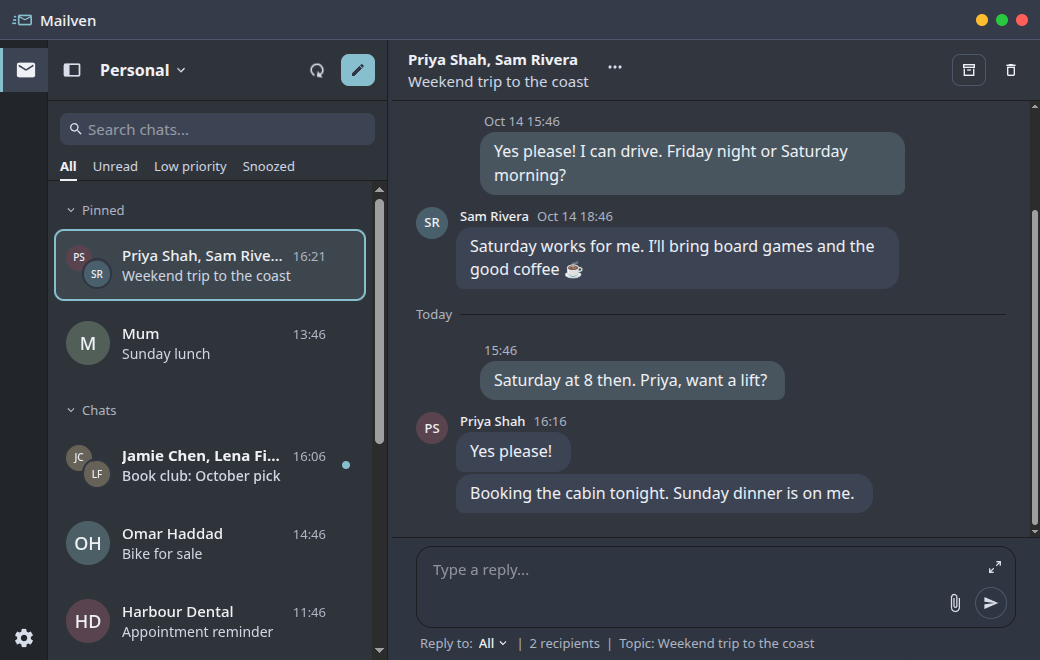
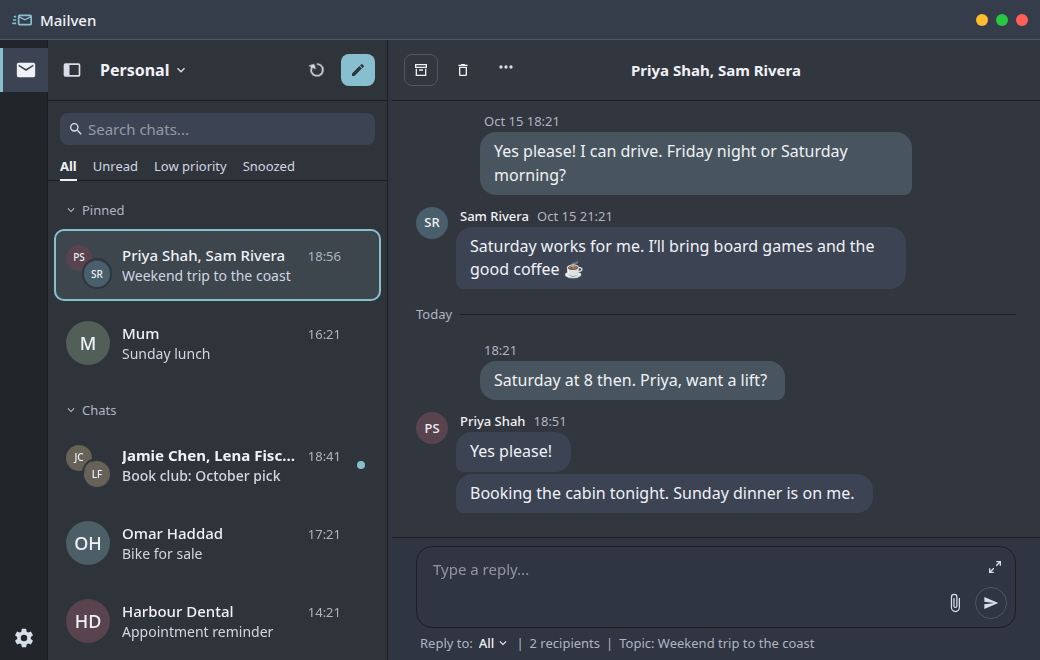
docs: refresh the README screenshot and add light and narrow shots
- Retake docs/ss.png for the current chat header (centred title, subject
  as a stream heading).
- Add docs/ss-light.png (light theme, Accounts column open) and
  docs/ss-narrow.png (480 px single-pane layout) to the README.
- headless-shot.js now writes all three README shots; the screenshot
  fakes pin the in-app title bar so shots don't depend on the dev profile.

diff --git a/.agents/skills/run-mailven/headless-shot.js b/.agents/skills/run-mailven/headless-shot.js
@@ -1,20 +1,44 @@
-// Headless README shot and Accounts-column crops. See "Playwright checks" in SKILL.md.
+// Headless README shots and Accounts-column crops. See "Playwright checks" in SKILL.md.
 // Usage: node headless-shot.js <outdir>   (dev server on :34115, DISPLAY not needed)
-// Writes <outdir>/ss.png (1040x660, README shot) and <outdir>/vc-<theme>-<expanded|collapsed>.png (title bar + sidebar).
+// Writes the README shots <outdir>/ss.png (1040x660, dark), ss-light.png (1040x690, light, Accounts expanded)
+// and ss-narrow.png (480x750, single-pane layout), plus <outdir>/vc-<theme>-<expanded|collapsed>.png (title bar + sidebar).
 const { withFakePage } = require('./fake-page')
 const out = process.argv[2]
 if (!out) { console.error('usage: node headless-shot.js <outdir>'); process.exit(1) }
-withFakePage({ width: 1040, height: 660 }, async (p) => {
-  await p.mouse.move(1039, 659)
-  await p.screenshot({ path: `${out}/ss.png` })
-  // Theme x Accounts-column check. Dev builds force dark, so set data-theme by hand for light.
-  const toggle = p.locator('[title="Hide sidebar"],[aria-label="Hide sidebar"],[title="Show sidebar"],[aria-label="Show sidebar"]').first()
-  for (const theme of ['dark', 'light']) {
-    await p.evaluate((t) => document.documentElement.setAttribute('data-theme', t), theme)
-    for (const state of ['collapsed', 'expanded']) { // starts collapsed, so the first toggle expands
-      await p.waitForTimeout(600)
-      await p.screenshot({ path: `${out}/vc-${theme}-${state}.png`, clip: { x: 0, y: 0, width: 520, height: 330 } })
-      await toggle.click()
+const toggleOf = (p) => p.locator('[title="Hide sidebar"],[aria-label="Hide sidebar"],[title="Show sidebar"],[aria-label="Show sidebar"]').first()
+// Scroll the open chat to its top so the shot starts at the subject heading, not a clipped bubble.
+const scrollChatToTop = (p) => p.evaluate(() => { document.querySelector('.flex-1.min-h-0.overflow-y-auto.scrollbar-thin').scrollTop = 0 })
+;(async () => {
+  await withFakePage({ width: 1040, height: 660 }, async (p) => {
+    await p.mouse.move(1039, 659)
+    await p.waitForTimeout(600)
+    await p.screenshot({ path: `${out}/ss.png` })
+    // Theme x Accounts-column check. Dev builds force dark, so set data-theme by hand for light.
+    const toggle = toggleOf(p)
+    for (const theme of ['dark', 'light']) {
+      await p.evaluate((t) => document.documentElement.setAttribute('data-theme', t), theme)
+      for (const state of ['collapsed', 'expanded']) { // starts collapsed, so the first toggle expands
+        await p.waitForTimeout(600)
+        await p.screenshot({ path: `${out}/vc-${theme}-${state}.png`, clip: { x: 0, y: 0, width: 520, height: 330 } })
+        await toggle.click()
+      }
     }
-  }
-}).catch(error => { console.error(error); process.exitCode = 1 })
+  })
+  // The heights end the chat between messages once it is scrolled to the top.
+  await withFakePage({ width: 1040, height: 690 }, async (p) => {
+    await p.evaluate(() => document.documentElement.setAttribute('data-theme', 'light'))
+    await toggleOf(p).click()
+    await p.waitForTimeout(800)
+    await scrollChatToTop(p)
+    await p.mouse.move(1039, 689)
+    await p.waitForTimeout(300)
+    await p.screenshot({ path: `${out}/ss-light.png` })
+  })
+  await withFakePage({ width: 480, height: 750 }, async (p) => {
+    await p.waitForTimeout(1500)
+    await scrollChatToTop(p)
+    await p.mouse.move(479, 749)
+    await p.waitForTimeout(300)
+    await p.screenshot({ path: `${out}/ss-narrow.png` })
+  })
+})().catch(error => { console.error(error); process.exitCode = 1 })

diff --git a/.agents/skills/run-mailven/screenshot-fakes.js b/.agents/skills/run-mailven/screenshot-fakes.js
@@ -1,4 +1,4 @@
-// Fake bindings for the README screenshot (docs/ss.png); see "Retaking the README screenshot" in SKILL.md.
+// Fake bindings for the README screenshots (docs/ss*.png); see "Retaking the README screenshots" in references/screenshot.md.
 // Call window.__installFakes(iframe.contentWindow) before the app mounts. Blocks every non-read binding.
 window.__installFakes = (win) => {
   const A = win.go.app.App
@@ -63,6 +63,8 @@ window.__installFakes = (win) => {
     GetConversation: async (id) => convo(id),
     GetSenderChat: async (acc, sender) => convo('sender:' + sender),
     GetChatDraft: async () => null,
+    // Pin the in-app title bar so the shot doesn't depend on the dev profile's setting.
+    GetShowTitleBar: async () => true, GetNativeTitleBar: async () => false,
   })
   return 'ok'
 }

diff --git a/.agents/skills/run-mailven/references/playwright.md b/.agents/skills/run-mailven/references/playwright.md
@@ -11,7 +11,7 @@ Set `SCRATCH` to an absolute output directory and `prefix` to a descriptive file
 ```bash
 # If a display is missing, start Xvfb as described in the core workflow.
 .agents/skills/run-mailven/dev.sh start          # host background facility; then dev.sh wait
-node .agents/skills/run-mailven/headless-shot.js "$SCRATCH"          # ss.png plus vc-<theme>-<state>.png
+node .agents/skills/run-mailven/headless-shot.js "$SCRATCH"          # README shots plus vc-<theme>-<state>.png
 node .agents/skills/run-mailven/ui-matrix.js "$SCRATCH" "$prefix"     # the full matrix
 ```
 
@@ -24,9 +24,9 @@ Its leading setup-module import runs before entry-point dependencies, so a
 It captures persisted UI/extension state from a bindings-only page, removes fakes
 by reloading, waits for debounced saves, asserts state is unchanged, and always
 closes the browser. Neither helper needs `serve-fakes.py`; the composer helpers
-still use that server. `headless-shot.js` writes the README shot plus the
-dark/light x Accounts-column expanded/collapsed crops. When retaking the README screenshot, copy `ss.png` to
-`docs/ss.png` as is.
+still use that server. `headless-shot.js` writes the three README shots (`ss.png`, `ss-light.png`,
+`ss-narrow.png`) plus the dark/light x Accounts-column expanded/collapsed crops.
+When retaking the README screenshots, copy those three files to `docs/` as is.
 
 `ui-matrix.js <outdir> <prefix>` uses the same page setup and writes 36 PNGs:
 `<prefix>-<dark|light>-<1400|900|700>-<expanded|collapsed>-<previews|nopreviews>.png`

diff --git a/.agents/skills/run-mailven/references/screenshot.md b/.agents/skills/run-mailven/references/screenshot.md
@@ -2,11 +2,22 @@
 
 Paths in commands are relative to the active checkout root; helper filenames refer to `.agents/skills/run-mailven/`. Read the core SKILL.md safeguards first.
 
-## Retaking the README screenshot
+## Retaking the README screenshots
 
-`docs/ss.png` (1040×660, Dark theme, mail sidebar collapsed) must show only made-up
-mail. `screenshot-fakes.js` fakes the read bindings: two accounts, a chat list
-and a short group chat. It also blocks every write binding and saves nothing.
+The README has three shots, all of made-up mail only:
+
+- `docs/ss.png`: 1040×660, Dark theme, mail sidebar collapsed.
+- `docs/ss-light.png`: 1040×690, Light theme, Accounts column expanded, chat scrolled to its subject heading.
+- `docs/ss-narrow.png`: 480×750, single-pane layout, chat scrolled to its subject heading.
+
+The quickest route is headless: `node .agents/skills/run-mailven/headless-shot.js <outdir>`
+writes all three (see [Playwright](playwright.md)). The heights of the last two end the
+chat between messages; recheck them after changing the fake conversation. The browser
+steps below retake `docs/ss.png` only.
+
+`screenshot-fakes.js` fakes the read bindings: two accounts, a chat list
+and a short group chat. It also blocks every write binding, saves nothing, and
+pins the in-app title bar on so the shots don't depend on the dev profile.
 Edit the data there, not in the page.
 
 1. Start the dev server and `serve-fakes.py` (both with the host background facility).

diff --git a/.agents/skills/run-mailven/SKILL.md b/.agents/skills/run-mailven/SKILL.md
@@ -36,7 +36,7 @@ Read only the reference needed for the check:
 
 - [Playwright](references/playwright.md): repeatable screenshots, theme/layout matrix, fake server and headless setup.
 - [Browser](references/browser.md): interactive navigation, store inspection, viewport and focus checks using the host's available browser APIs.
-- [Screenshot](references/screenshot.md): retaking `docs/ss.png` with made-up data only.
+- [Screenshot](references/screenshot.md): retaking the README screenshots (`docs/ss*.png`) with made-up data only.
 - [Composer](references/composer.md): composer/undo-send checks with blocked real writes; also read Playwright for launcher setup.
 - [Troubleshooting](references/troubleshooting.md): hidden tabs, OAuth failures, dev themes, bindings and shutdown problems, only when encountered.
 

diff --git a/README.md b/README.md
@@ -6,6 +6,10 @@
 
 ![Mailven chat mail view](docs/ss.png)
 
+| Light theme with all accounts and folders | Narrow window |
+| --- | --- |
+| ![Mailven in the light theme with the Accounts column open, showing a combined inbox for two accounts](docs/ss-light.png) | ![Mailven in a narrow window, showing a single chat that starts with its subject heading](docs/ss-narrow.png) |
+
 _Note_: this is a personal project that is alpha software under active development. User-caution is heavily emphasized, no guarantees or warranties provided. 
 
 ## History
